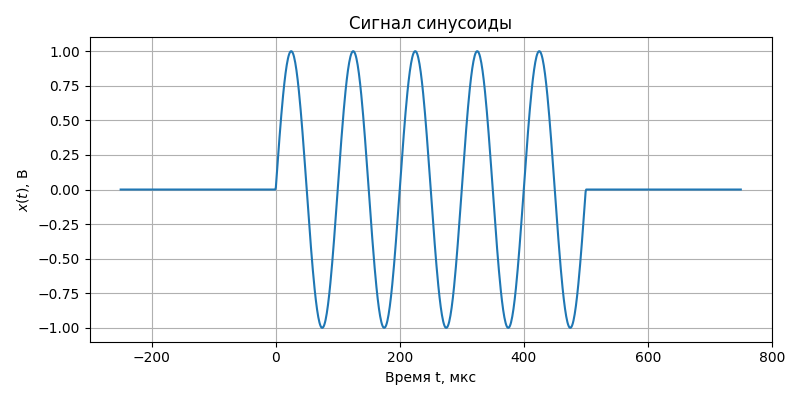
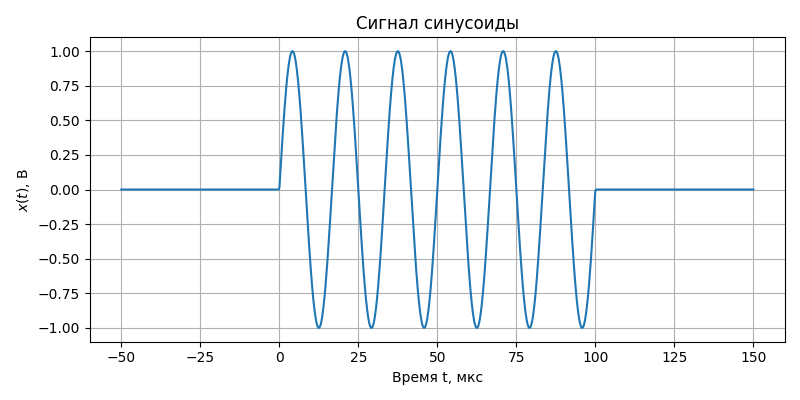
update graphs for 2.3

diff --git a/LAB_1/2/2.3/main.py b/LAB_1/2/2.3/main.py
@@ -2,8 +2,8 @@ import helpers as h
 import matplotlib.pyplot as plt  # импорт модуля matplotlib.pyplot
 import numpy as np  # импорт бибилиотеки numpy
 
-f0=10*1e3       # 10 кГц
-tau=500*1e-6    # 500 мкс
+f0=60*1e3      
+tau=100*1e-6    
 
 def sin_with_boxcar(t, tau):                            
     if 0<=t<=tau:
